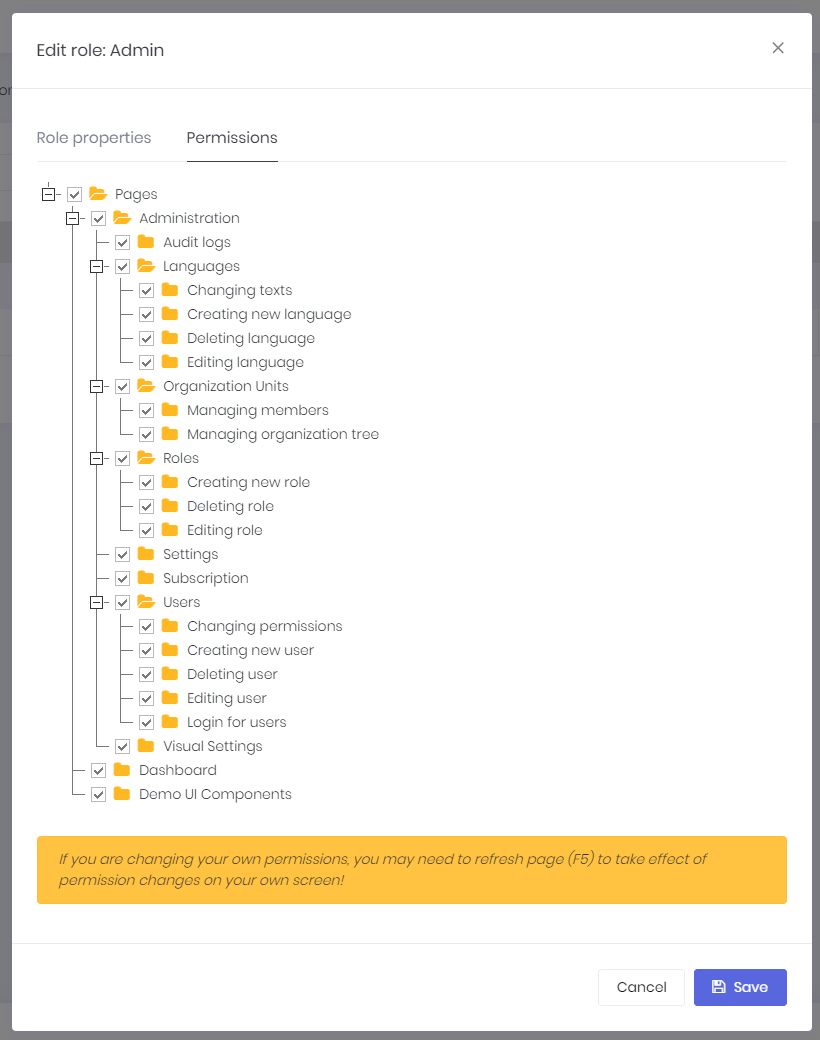
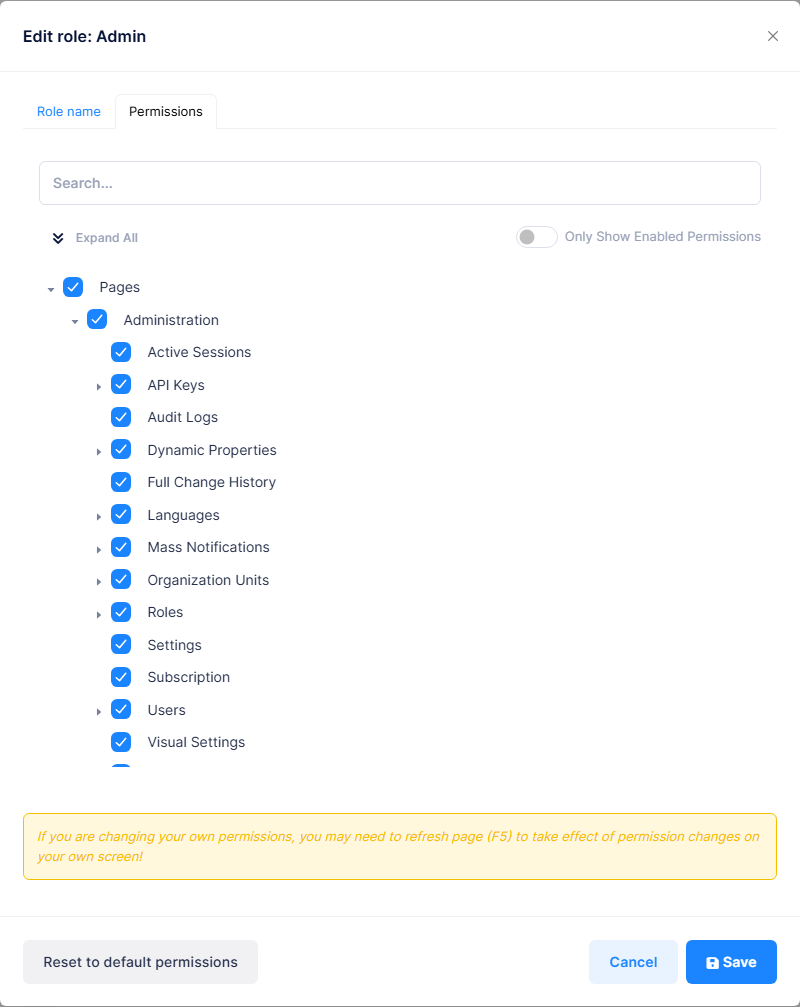
Document resetting static role permissions to their defaults

Changed region(s): [[0.0, 0.0, 1.0, 1.0], [0.7188, 0.2155, 0.9375, 0.2463], [0.6562, 0.2155, 0.6875, 0.2463]]

diff --git a/docs/en/Features-Angular-Role-Management.md b/docs/en/Features-Angular-Role-Management.md
@@ -30,6 +30,32 @@ Since roles are used to group permissions, we can set permissions of a role whil
 
 Every tenant has it's **own roles** and any change in roles for a tenant does not effect other tenants. Also, host has also it's own isolated roles.
 
+#### Resetting Role Permissions
+
+Permissions of a static role can be changed like the permissions of any other role, and after a while it may be hard to tell which permissions the role had at the beginning. To go back, open the static role and click the **Reset to default permissions** button in the edit role modal. After you confirm, all permission changes made for that role are removed and the role gets its default permissions back. The change is saved immediately and affects every user in the role.
+
+The default permissions of a static role come from its definition in the **AppRoleConfig** class. A static role defined with `grantAllPermissionsByDefault: true` gets all permissions back, and any other static role gets the permissions in its `GrantedPermissions` list. In the startup project, this means the **admin** roles get all permissions back and the **user** role gets no permission back. The button is not shown for dynamic roles, since they have no default permissions to go back to.
+
+If you want a static role to start with some permissions, add them to its definition in **AppRoleConfig**:
+
+```csharp
+roleManagementConfig.StaticRoles.Add(
+    new StaticRoleDefinition(
+        StaticRoleNames.Tenants.User,
+        MultiTenancySides.Tenant)
+    {
+        GrantedPermissions =
+        {
+            AppPermissions.Pages_DemoUiComponents
+        }
+    }
+);
+```
+
+Permissions granted to a role from code, for example in **TenantRoleAndUserBuilder**, are stored like the changes made on the UI, so resetting the role removes them as well. Define default permissions in **AppRoleConfig** so that they survive a reset.
+
+On the server side, the reset is done by the `ResetRolePermissions` method of **RoleAppService**, which calls `RoleManager.ResetPermissionsToDefaultAsync`.
+
 ## Next
 
 - [User Management](Features-Angular-User-Management)

diff --git a/docs/en/Features-React-Role-Management.md b/docs/en/Features-React-Role-Management.md
@@ -30,6 +30,32 @@ Since roles are used to group permissions, we can set permissions of a role whil
 
 Every tenant has it's **own roles** and any change in roles for a tenant does not effect other tenants. Also, host has also it's own isolated roles.
 
+#### Resetting Role Permissions
+
+Permissions of a static role can be changed like the permissions of any other role, and after a while it may be hard to tell which permissions the role had at the beginning. To go back, open the static role and click the **Reset to default permissions** button in the edit role modal. After you confirm, all permission changes made for that role are removed and the role gets its default permissions back. The change is saved immediately and affects every user in the role.
+
+The default permissions of a static role come from its definition in the **AppRoleConfig** class. A static role defined with `grantAllPermissionsByDefault: true` gets all permissions back, and any other static role gets the permissions in its `GrantedPermissions` list. In the startup project, this means the **admin** roles get all permissions back and the **user** role gets no permission back. The button is not shown for dynamic roles, since they have no default permissions to go back to.
+
+If you want a static role to start with some permissions, add them to its definition in **AppRoleConfig**:
+
+```csharp
+roleManagementConfig.StaticRoles.Add(
+    new StaticRoleDefinition(
+        StaticRoleNames.Tenants.User,
+        MultiTenancySides.Tenant)
+    {
+        GrantedPermissions =
+        {
+            AppPermissions.Pages_DemoUiComponents
+        }
+    }
+);
+```
+
+Permissions granted to a role from code, for example in **TenantRoleAndUserBuilder**, are stored like the changes made on the UI, so resetting the role removes them as well. Define default permissions in **AppRoleConfig** so that they survive a reset.
+
+On the server side, the reset is done by the `ResetRolePermissions` method of **RoleAppService**, which calls `RoleManager.ResetPermissionsToDefaultAsync`.
+
 ## Next
 
 - [User Management](Features-React-User-Management)

diff --git a/docs/en/Features-Mvc-Core-Role-Management.md b/docs/en/Features-Mvc-Core-Role-Management.md
@@ -29,6 +29,32 @@ Since roles are used to group permissions, we can set permissions of a role whil
 
 Every tenant has its own roles and any change in roles for a tenant does not affect other tenants. Also, host has also own isolated roles.
 
+##### Resetting Role Permissions
+
+Permissions of a static role can be changed like the permissions of any other role, and after a while it may be hard to tell which permissions the role had at the beginning. To go back, open the static role and click the **Reset to default permissions** button in the edit role modal. After you confirm, all permission changes made for that role are removed and the role gets its default permissions back. The change is saved immediately and affects every user in the role.
+
+The default permissions of a static role come from its definition in the **AppRoleConfig** class. A static role defined with `grantAllPermissionsByDefault: true` gets all permissions back, and any other static role gets the permissions in its `GrantedPermissions` list. In the startup project, this means the **admin** roles get all permissions back and the **user** role gets no permission back. The button is not shown for dynamic roles, since they have no default permissions to go back to.
+
+If you want a static role to start with some permissions, add them to its definition in **AppRoleConfig**:
+
+```csharp
+roleManagementConfig.StaticRoles.Add(
+    new StaticRoleDefinition(
+        StaticRoleNames.Tenants.User,
+        MultiTenancySides.Tenant)
+    {
+        GrantedPermissions =
+        {
+            AppPermissions.Pages_DemoUiComponents
+        }
+    }
+);
+```
+
+Permissions granted to a role from code, for example in **TenantRoleAndUserBuilder**, are stored like the changes made on the UI, so resetting the role removes them as well. Define default permissions in **AppRoleConfig** so that they survive a reset.
+
+On the server side, the reset is done by the `ResetRolePermissions` method of **RoleAppService**, which calls `RoleManager.ResetPermissionsToDefaultAsync`.
+
 ## Next
 
 - [User Management](Features-Mvc-Core-User-Management)
